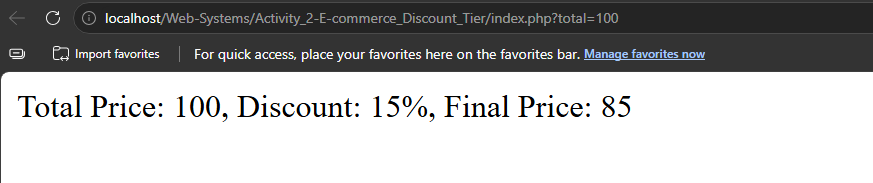
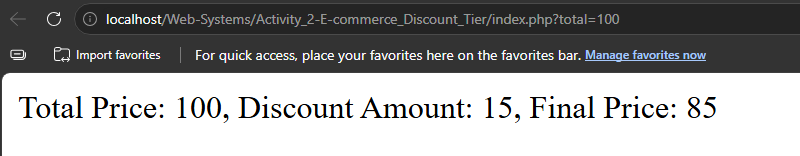
Update Activity 2 E-commerce Discount Tier

Changed region(s): [[0.0, 0.2564, 1.0, 0.7692], [0.0, 0.0513, 1.0, 0.2051], [0.0938, 0.0, 1.0, 0.0256]]

diff --git a/Activity_2-E-commerce_Discount_Tier/index.php b/Activity_2-E-commerce_Discount_Tier/index.php
@@ -3,18 +3,14 @@ $total = $_GET['total'];
 
 if ($total >= 200) {
     $discountPrice = $total * 0.20;
-    $discount = "20%";
 } else if ($total >= 100) {
     $discountPrice = $total * 0.15;
-    $discount = "15%";
 } else if ($total >= 50) {
     $discountPrice = $total * 0.10;
-    $discount = "10%";
 } else {
     $discountPrice = 0;
-    $discount = "No Discount";
 }
 
 $finalPrice = $total - $discountPrice;
 
-echo "Total Price: $total, Discount: $discount, Final Price: $finalPrice";
+echo "Total Price: $total, Discount Amount: $discountPrice, Final Price: $finalPrice";
